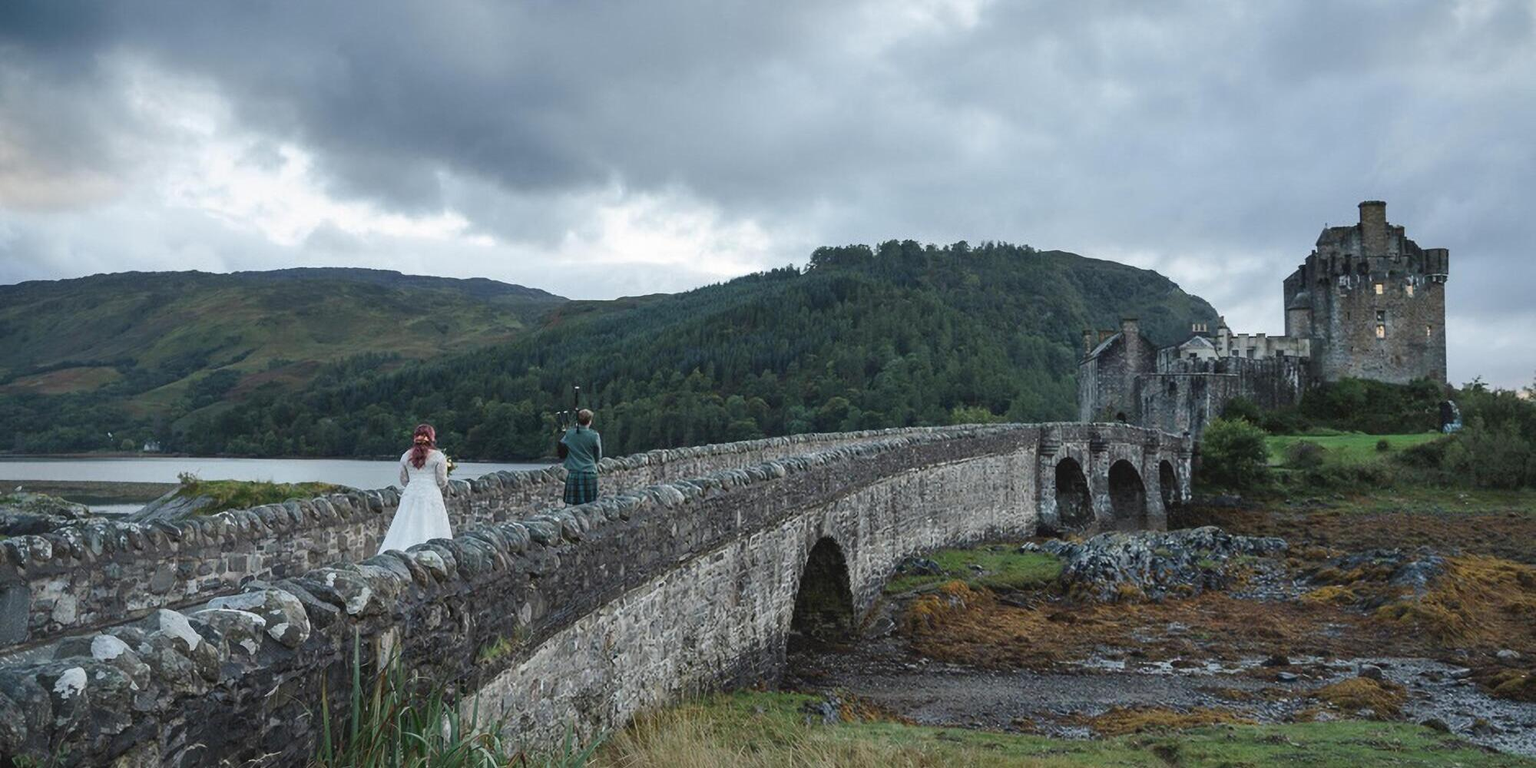
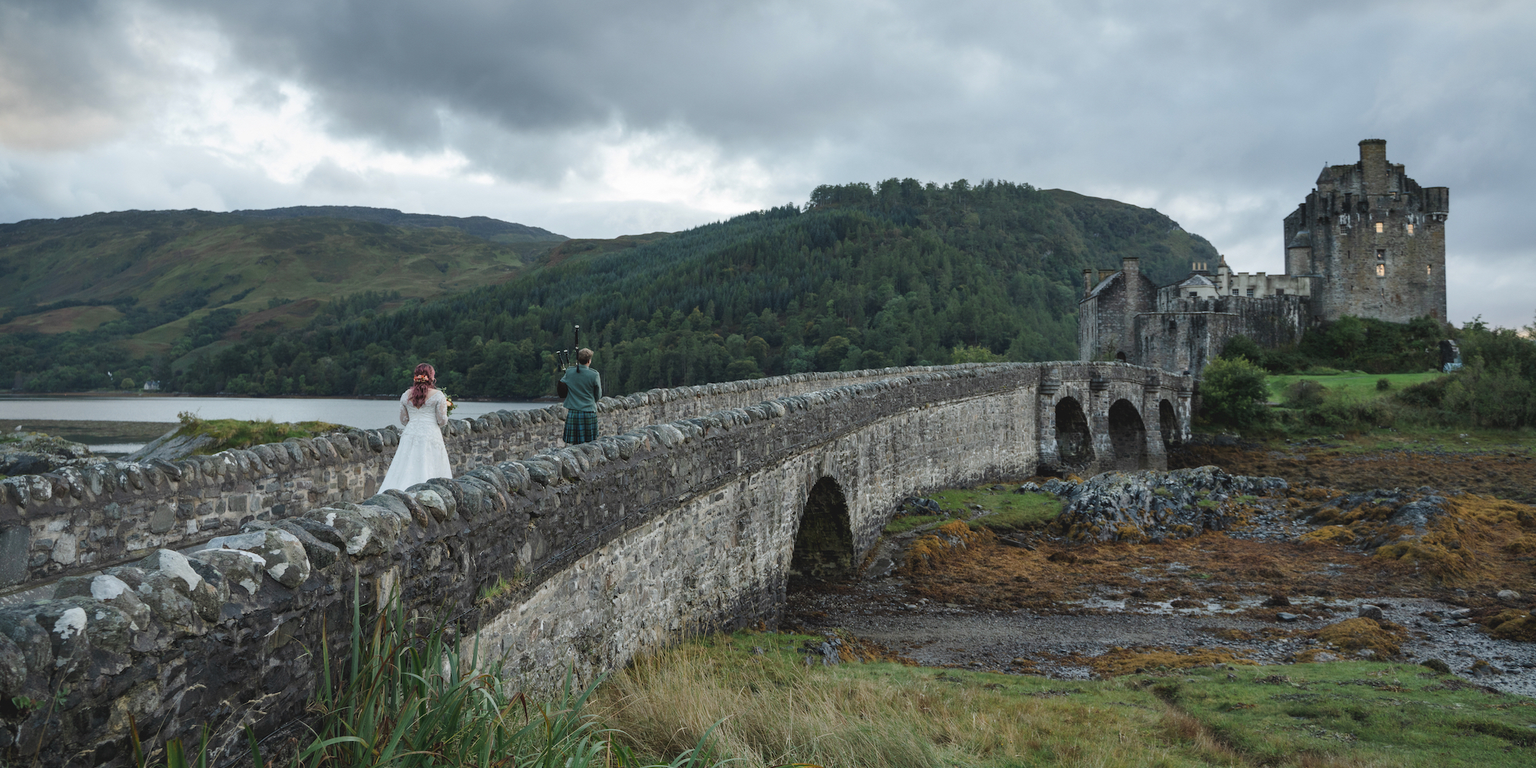
Updated photos in Skye Wedding post to higher quality ones, and added umbrella bridge photo

diff --git a/posts/2021-skye-wedding/post.md b/posts/2021-skye-wedding/post.md
@@ -104,3 +104,9 @@ The walk up Dun Caan was very pleasant with a little light rain at the start of 
 </div>
 
 Our final night was very pleasant, we had a three course meal at the distillery with some cocktails, and headed to bed. In the morning we packed our things and headed back to Edinburgh, stopping at Eilean Donan Castle as we passed to thank the staff and walk down the bridge one more time.
+
+One final photo of Rachel and I on the bridge at Eilean Donan Castle after our wedding ceremony.
+
+<div class="gallery">
+    <a href="/2021-skye-wedding/joel-and-rachel-on-the-bridge-at-eilean-donan-castle-2000.jpg"><img alt="Joel and Rachel on the bridge at Eilean Donan Castle" srcset="/2021-skye-wedding/joel-and-rachel-on-the-bridge-at-eilean-donan-castle-400.jpg, /2021-skye-wedding/joel-and-rachel-on-the-bridge-at-eilean-donan-castle-800.jpg 800w, /2021-skye-wedding/joel-and-rachel-on-the-bridge-at-eilean-donan-castle-1200.jpg 1200w, /2021-skye-wedding/joel-and-rachel-on-the-bridge-at-eilean-donan-castle-1600.jpg 1600w, /2021-skye-wedding/joel-and-rachel-on-the-bridge-at-eilean-donan-castle-2000.jpg 2000w" src="/2021-skye-wedding/joel-and-rachel-on-the-bridge-at-eilean-donan-castle-400.jpg"></a>
+</div>
